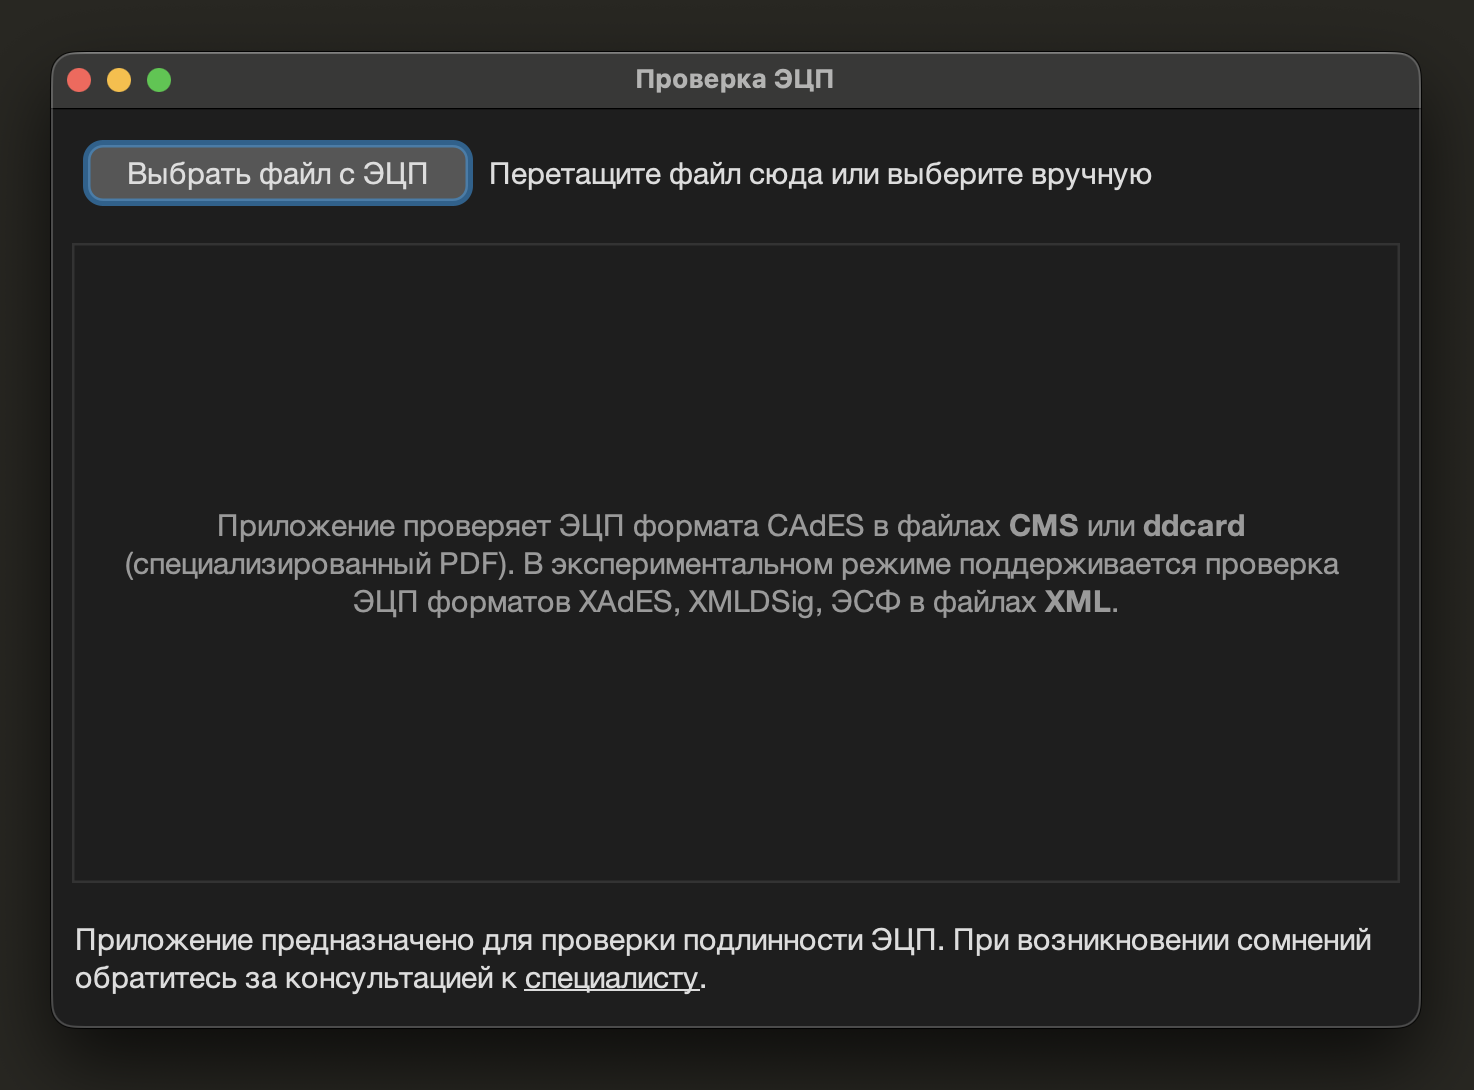
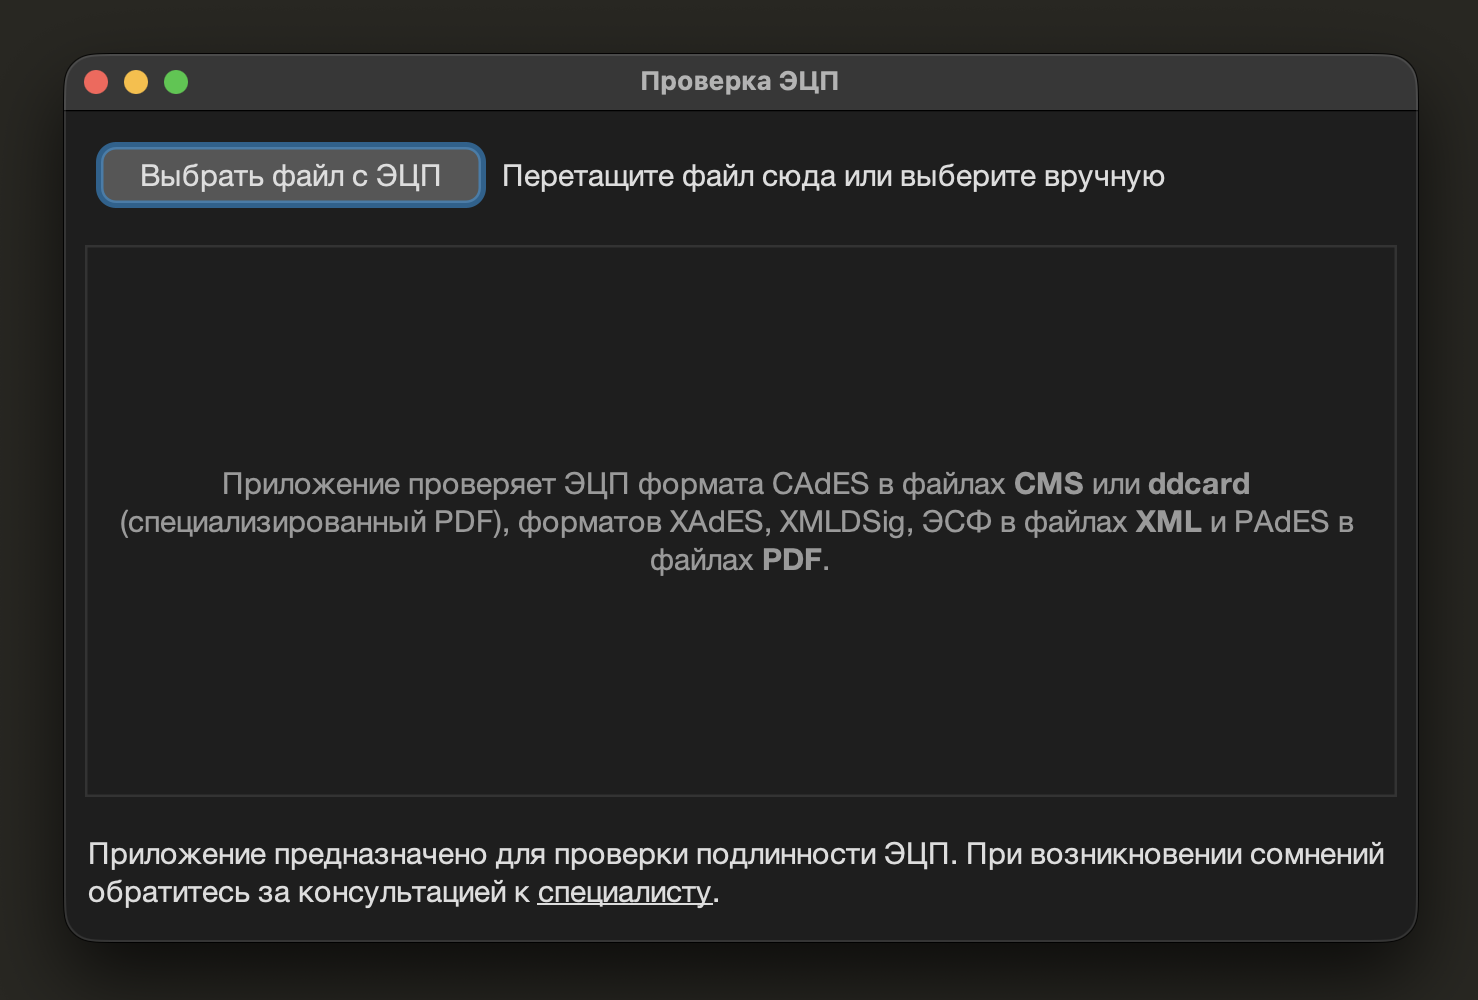
Update README

Changed region(s): [[0.0312, 0.031, 0.9674, 0.217], [0.0624, 0.465, 0.9362, 0.589], [0.0312, 0.837, 0.9362, 0.93]]

diff --git a/README.md b/README.md
@@ -1,6 +1,6 @@
 # EDScheck
 
-Десктопное приложение для проверки электронной цифровой подписи (ЭЦП) в CMS-контейнерах и Карточках электронного документа PDF (`ddcard`) по законодательству Республики Казахстан. В экспериментальном режиме начиная с версии 1.2.0 поддерживается проверка ЭЦП форматов XAdES, XMLDSig, ЭСФ в файлах XML, а с версии 1.4.0 — ЭЦП формата PAdES в файлах PDF.
+Десктопное приложение для проверки электронной цифровой подписи (ЭЦП) по законодательству Республики Казахстан: ЭЦП формата CAdES в файлах CMS или [ddcard](https://github.com/kaarkz/ddcard) (специализированный PDF), начиная с версии 1.2.0 — форматов XAdES, XMLDSig, ЭСФ в файлах XML, а с версии 1.4.0 — формата PAdES в файлах PDF.
 
 > [!WARNING]
 > Приложение предназначено для проверки подлинности ЭЦП. При возникновении сомнений обратитесь за консультацией к [специалисту](https://sigex.kz/blog/2021-01-25-digital-signatures-in-courts/#where-to-find-experts).
@@ -174,7 +174,7 @@ build-gui.bat
 bin\EDScheck.bat
 ```
 
-`.bat`-скрипты  написаны по образцу `build.sh`/`build-gui.sh`/`bin/EDScheck`. Сообщения в них на английском: версия с русским текстом ломала разбор всего файла целиком.
+`.bat`-скрипты написаны по образцу `build.sh`/`build-gui.sh`/`bin/EDScheck`.
 
 ## Лицензия
 
